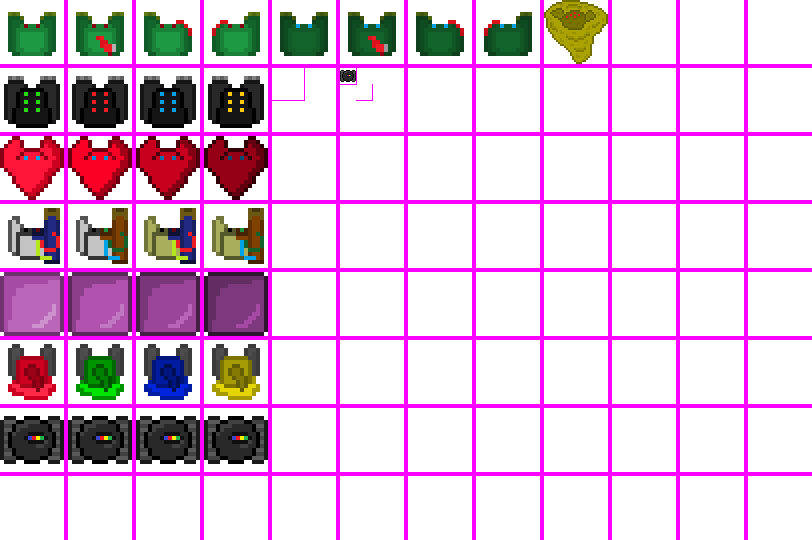
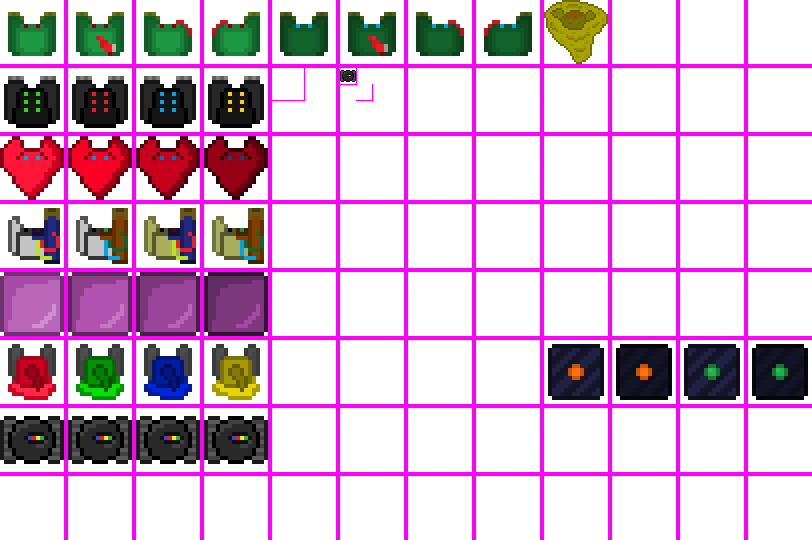
added them chests

Changed region(s): [[0.6773, 0.6222, 1.0, 0.7407]]

diff --git a/app/src/gameplay/entities/_entity.js b/app/src/gameplay/entities/_entity.js
@@ -17,7 +17,6 @@ class _Entity {
     collidesPlayer;         // - states if the entity checks for collision with a player
     collidesMonster;        // - states if the entity checks for collision with a monster
     collidesProjectile;     // - states if the entity checks for collision with a projectile
-    collidesBarrier;        // - states if the entity checks for collision with a barrier
     collidesItem;           // - states if the entity checks for collision with an item
     tileX;                  // - x position in tileset (can be changed through animations)
     tileY;                  // - y position in tileset (can be changed through animations)
@@ -43,7 +42,6 @@ class _Entity {
         this.collisionCheckTimer = 0;
         this.collidesPlayer = false;
         this.collidesMonster = false;
-        this.collidesBarrier = false;
         this.collidesProjectile = false;
         this.collidesItem = false;
         this.tileX = 0;
@@ -156,13 +154,6 @@ class _Entity {
                 }
             });
         }
-        if(this.collidesBarrier){
-            st.barriers.filter(e => {return !e.expired}).forEach(e => {
-                if(this._isCollisionWithEntity(e)){
-                    this._onCollisionWithBarrier(e);
-                }
-            });
-        }
         if(this.collidesItem){
             st.items.filter(e => {return !e.expired}).forEach(e => {
                 if(this._isCollisionWithEntity(e)){
@@ -190,10 +181,6 @@ class _Entity {
     }
 
     _onCollisionWithProjectile(entity){
-        // abstract
-    }
-
-    _onCollisionWithBarrier(entity){
         // abstract
     }
 

diff --git a/app/src/gameplay/stage/stageManager.js b/app/src/gameplay/stage/stageManager.js
@@ -14,7 +14,6 @@ const StageManager = {
             this.currentStage.monsters.forEach(e => e.sleep());
             this.currentStage.particles.forEach(e => e.sleep());
             this.currentStage.projectiles.forEach(e => e.sleep());
-            this.currentStage.barriers.forEach(e => e.sleep());
             this.currentStage.player.sleep();
             clearInterval(this.beaconTestInterval);
             clearInterval(this.cullEntitiesInterval);
@@ -28,7 +27,6 @@ const StageManager = {
             this.currentStage.monsters.forEach(e => e.awaken());
             this.currentStage.particles.forEach(e => e.awaken());
             this.currentStage.projectiles.forEach(e => e.awaken());
-            this.currentStage.barriers.forEach(e => e.awaken());
             this.currentStage.player.awaken();
             this.beaconTestInterval = setInterval(this.testAllBeacons, 200);
             this.cullEntitiesInterval = setInterval(this.cullEntityLists, 5000);
@@ -45,7 +43,6 @@ const StageManager = {
         cs.monsters = cs.monsters.filter(e => !e.expired);
         cs.particles = cs.particles.filter(e => !e.expired);
         cs.projectiles = cs.projectiles.filter(e => !e.expired);
-        cs.barriers = cs.barriers.filter(e => !e.expired);
         cs.numberAnimations = cs.numberAnimations.filter(e => !e.expired);
     },
 

diff --git a/app/src/gameplay/entities/items/energyBattery.js b/app/src/gameplay/entities/items/energyBattery.js
@@ -31,8 +31,7 @@ class RedEnergyBattery extends EnergyBattery{
 
 }
 
-
-class BlueEnergyBattery extends EnergyBattery{
+class YellowEnergyBattery extends EnergyBattery{
 
     constructor(){
         super();
@@ -41,17 +40,17 @@ class BlueEnergyBattery extends EnergyBattery{
     }
 
     shouldPickUp(player){
-        return player.currentBlueEnergy < player.maxBlueEnergy;
+        return player.currentYellowEnergy < player.maxYellowEnergy;
     }
 
     onPickUp(player){
-        player.gainBlueEnergy(this.energyRestoBlue);
+        player.gainYellowEnergy(this.energyRestored);
     }
 
 }
 
 
-class YellowEnergyBattery extends EnergyBattery{
+class BlueEnergyBattery extends EnergyBattery{
 
     constructor(){
         super();
@@ -60,11 +59,13 @@ class YellowEnergyBattery extends EnergyBattery{
     }
 
     shouldPickUp(player){
-        return player.currentYellowEnergy < player.maxYellowEnergy;
+        return player.currentBlueEnergy < player.maxBlueEnergy;
     }
 
     onPickUp(player){
-        player.gainYellowEnergy(this.energyRestoYellow);
+        player.gainBlueEnergy(this.energyRestored);
     }
 
 }
+
+

diff --git a/app/src/gameplay/entities/breakables/chest.js b/app/src/gameplay/entities/breakables/chest.js
@@ -1,0 +1,51 @@
+class Chest extends _Breakable {
+
+    constructor(){
+        super();
+        this.tileX = Util.randInt(8, 11);
+        this.tileY = 5;
+        this.defence = 35;
+        this.maxHp = 15;
+        this.displaySize = Util.randFloat(1.1, 1.3);
+        this.direction = Util.randFloat(0, 360);
+    }
+
+    _onExpire(){
+        super._onExpire();
+        ParticleSpawner.createExplosion(ChestSplinterParticle, this.x, this.y, Util.randInt(5, 10));
+    }
+
+}
+
+class RedChest extends Chest {
+    constructor(){
+        super();
+        this.lootTable = [
+            [0, 0.3, 1],
+            [1, 0.1, 1],
+            [3, 0.4, 2]
+        ];
+    }
+}
+
+class YellowChest extends Chest {
+    constructor(){
+        super();
+        this.lootTable = [
+            [0, 0.3, 1],
+            [1, 0.1, 1],
+            [4, 0.4, 2]
+        ];
+    }
+}
+
+class BlueChest extends Chest {
+    constructor(){
+        super();
+        this.lootTable = [
+            [0, 0.3, 1],
+            [1, 0.1, 1],
+            [5, 0.4, 2]
+        ];
+    }
+}

diff --git a/app/src/gameplay/entities/breakables/_breakable.js b/app/src/gameplay/entities/breakables/_breakable.js
@@ -1,0 +1,37 @@
+"use strict";
+class _Breakable extends _Monster {
+
+    lootTable = [[]];     // [[itemId, dropChance, number], [...]]
+
+    constructor(){
+        super();
+    }
+
+    _doExist(thisEntity){
+
+    }
+
+    _onExpire(){
+        super._onExpire();
+        this.dropLoot();
+    }
+  
+   /**
+    * @see ItemFactory
+    */
+    dropLoot(){
+        this.lootTable.forEach(e => {
+            for(var i = 0; i < e[2]; i++){
+                if(Util.chance(e[1])){
+                    var x = this.x + Util.randFloat(-1.5, 1.5);
+                    var y = this.y + Util.randFloat(-1.5, 1.5);
+                    var i = ItemFactory.getItem(e[0], x, y);
+                    if(!i._isInWall()){
+                        StageManager.currentStage.items.push(i);
+                        i.awaken();
+                    }
+                }
+            }
+        });
+    }
+}

diff --git a/app/index.html b/app/index.html
@@ -78,9 +78,12 @@
 	<script src="src/gameplay/entities/particles/sparkParticle.js"></script>
 	<script src="src/gameplay/entities/particles/smokeParticle.js"></script>
 	<script src="src/gameplay/entities/particles/gelBlobParticle.js"></script>
+	<script src="src/gameplay/entities/particles/chestSplinterParticle.js"></script>
 	<script src="src/gameplay/entities/particles/particleSpawner.js"></script>
 	<script src="src/gameplay/entities/players/player.js"></script>
 	<script src="src/gameplay/entities/monsters/_monster.js"></script>
+	<script src="src/gameplay/entities/breakables/_breakable.js"></script>
+	<script src="src/gameplay/entities/breakables/chest.js"></script>
 	<script src="src/gameplay/entities/monsters/zombie.js"></script>
 	<script src="src/gameplay/entities/monsters/drone.js"></script>
 	<script src="src/gameplay/entities/monsters/ghost.js"></script>

diff --git a/app/src/gameplay/entities/monsters/monsterFactory.js b/app/src/gameplay/entities/monsters/monsterFactory.js
@@ -8,6 +8,9 @@ const MonsterFactory = {
         3 : Skeleton,
         4 : GelCube,
         5 : OozeLord,
+        6 : RedChest,
+        7 : YellowChest,
+        8 : BlueChest, 
 
         default : Zombie
     },
@@ -18,7 +21,7 @@ const MonsterFactory = {
      * @param {number} y - monster y position
      */
     getMonster(id, x, y){
-        id = Util.randInt(0, 5);
+        id = Util.randInt(0, 8);
         var monsterClass = this._monsterTypeDict[id] ? this._monsterTypeDict[id] : this._monsterTypeDict.default;
         var monster = new monsterClass();
         if(x && y){

diff --git a/app/src/gameplay/entities/particles/chestSplinterParticle.js b/app/src/gameplay/entities/particles/chestSplinterParticle.js
@@ -1,0 +1,17 @@
+"use strict";
+class ChestSplinterParticle extends _Particle {
+
+    constructor(direction, x, y){
+        super(direction, x, y);
+        this.duration = Util.randInt(30, 80);
+        this.displaySize = Util.randFloat(0.2, 0.5);
+        this.speed = Util.randFloat(0.01, 0.05);
+        this.tileX = Util.randInt(0, 3);
+        this.tileY = 7;
+    }
+    
+    animate(){
+        this.rotate(3);
+    }
+
+}

diff --git a/app/src/gameplay/stage/stage.js b/app/src/gameplay/stage/stage.js
@@ -18,7 +18,6 @@ class Stage {
     player;
     monsters;
     projectiles;
-    barriers;
     particles;
     items;
 
@@ -32,7 +31,6 @@ class Stage {
         this.player = player ?  player : new Player(); 
         this.monsters = [];
         this.projectiles = [];
-        this.barriers = [];
         this.particles = [];
         this.items = [];
         this.beacons = [];

diff --git a/app/src/gameplay/actions/monsterActions/oozeLordDeath.js b/app/src/gameplay/actions/monsterActions/oozeLordDeath.js
@@ -10,6 +10,9 @@ class OozeLordDeath extends _Action {
         for(var i = 0; i < 36; i++){
             ProjectileSpawner.spawn(ZombieBileProjectile, this.user, this.user.x, this.user.y, i * 10);
         }
+        for(var i = 0; i < 18; i++){
+            ProjectileSpawner.spawn(OozeLordBileProjectile, this.user, this.user.x, this.user.y, i * 20);
+        }
     }
 
 }

diff --git a/app/src/gameplay/entities/projectiles/_projectile.js b/app/src/gameplay/entities/projectiles/_projectile.js
@@ -15,7 +15,6 @@ class _Projectile extends _Entity {
         this.direction = direction;
         this.travelDirection = direction;
         this.checksCollisions = true;
-        this.collidesBarrier = true;
         this.parentEntity = parentEntity;
         this.x = x;
         this.y = y;

diff --git a/app/src/gameplay/entities/monsters/oozeLord.js b/app/src/gameplay/entities/monsters/oozeLord.js
@@ -27,7 +27,6 @@ class OozeLord extends _Monster {
     _onExpire(){
         super._onExpire();
         this.death.execute();
-        ParticleSpawner.createExplosion(ZombieGutsParticle, this.x, this.y, Util.randInt(15, 30));
     }
 
     _doExist(thisEntity){
